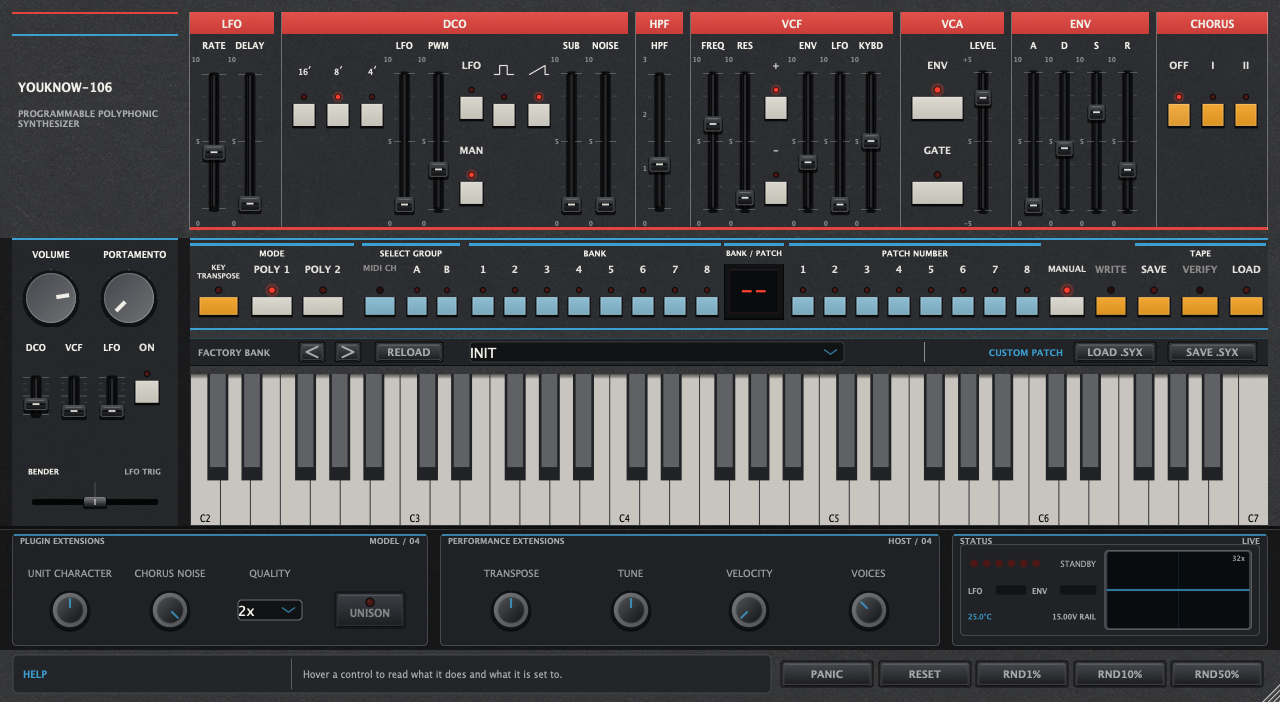
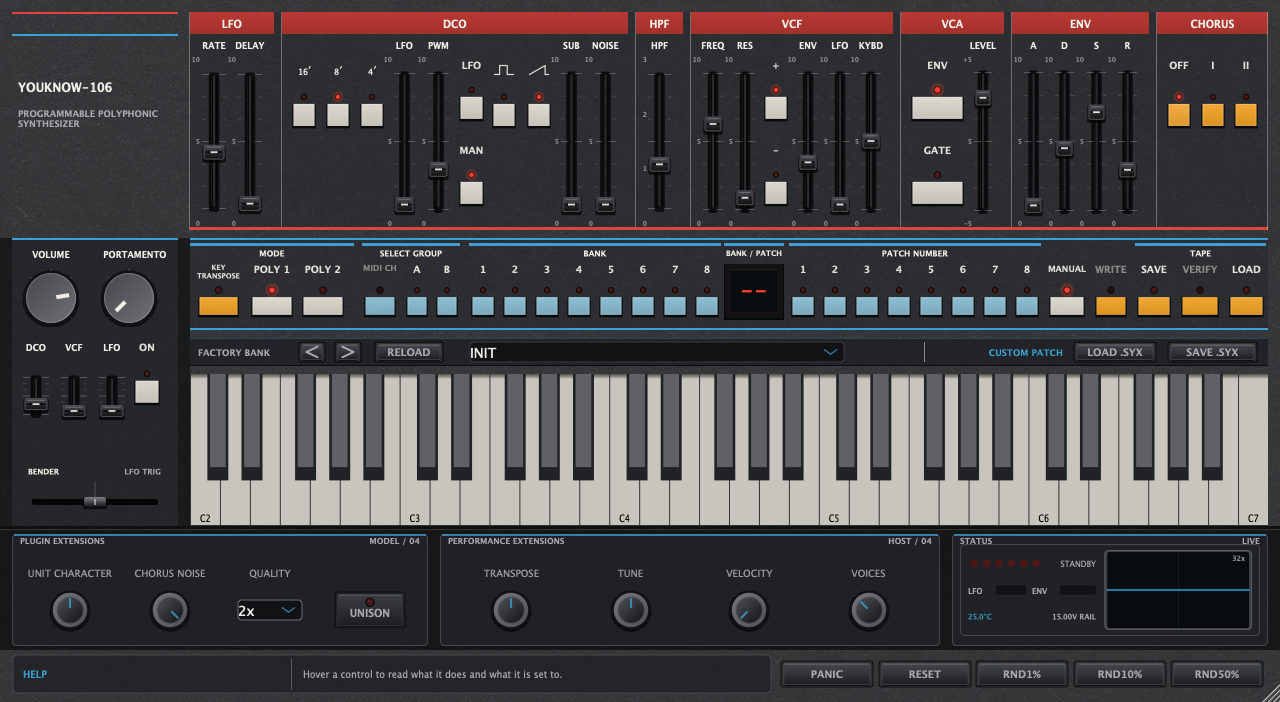
polish YouKnow106 accessibility and packaging

Changed region(s): [[0.125, 0.0, 1.0, 0.0598], [0.2812, 0.8675, 0.3125, 0.8974]]

diff --git a/youknow106/Source/PluginEditor.cpp b/youknow106/Source/PluginEditor.cpp
@@ -168,7 +168,7 @@ YouKnow106LookAndFeel::YouKnow106LookAndFeel()
     setColour (juce::PopupMenu::highlightedBackgroundColourId,
                fromPalette (panel::colour::cyan).withAlpha (0.85f));
     setColour (juce::PopupMenu::highlightedTextColourId,
-               fromPalette (panel::colour::faceplate));
+               fromPalette (panel::colour::scope));
     setColour (juce::PopupMenu::headerTextColourId,
                fromPalette (panel::colour::textDim));
 
@@ -184,6 +184,35 @@ YouKnow106LookAndFeel::YouKnow106LookAndFeel()
                fromPalette (panel::colour::cyan).withAlpha (0.45f));
     setColour (juce::MidiKeyboardComponent::shadowColourId,
                juce::Colours::black.withAlpha (0.6f));
+}
+
+std::unique_ptr<juce::FocusOutline>
+YouKnow106LookAndFeel::createFocusOutlineForComponent (juce::Component&)
+{
+    struct WindowProperties final : public juce::FocusOutline::OutlineWindowProperties
+    {
+        juce::Rectangle<int> getOutlineBounds (juce::Component& component) override
+        {
+            return component.getScreenBounds().expanded (3);
+        }
+
+        void drawOutline (juce::Graphics& g, int width, int height) override
+        {
+            const auto bounds = juce::Rectangle<float> (
+                static_cast<float> (width), static_cast<float> (height));
+
+            // Adjacent dark and light rings remain visible over every panel,
+            // key and illuminated control colour without guessing which one
+            // happens to be behind the focused component.
+            g.setColour (fromPalette (panel::colour::scope));
+            g.drawRoundedRectangle (bounds.reduced (1.5f), 4.0f, 3.0f);
+            g.setColour (fromPalette (panel::colour::text));
+            g.drawRoundedRectangle (bounds.reduced (3.5f), 2.5f, 1.5f);
+        }
+    };
+
+    return std::make_unique<juce::FocusOutline> (
+        std::make_unique<WindowProperties>());
 }
 
 void YouKnow106LookAndFeel::drawLinearSlider (juce::Graphics& g, int x, int y,
@@ -526,13 +555,10 @@ void YouKnow106LookAndFeel::drawButtonText (juce::Graphics& g, juce::TextButton&
     const auto text = button.getButtonText();
     const bool compact = static_cast<bool> (
         button.getProperties().getWithDefault (compactStyleProperty, false));
-    const bool secondary = static_cast<bool> (
-        button.getProperties().getWithDefault (secondaryStyleProperty, false));
     const bool hardware = static_cast<bool> (
         button.getProperties().getWithDefault (hardwareStyleProperty, false));
     g.setColour (fromPalette (button.getToggleState() ? panel::colour::text
-                                                      : panel::colour::textDim)
-                     .withAlpha (secondary ? 0.72f : 1.0f));
+                                                      : panel::colour::textDim));
 
     if (hardware)
     {
@@ -1451,7 +1477,10 @@ YouKnow106AudioProcessorEditor::YouKnow106AudioProcessorEditor (YouKnow106AudioP
         if (isSlider)
             child->setWantsKeyboardFocus (true);
         if (isInteractive)
+        {
             child->setHasFocusOutline (true);
+            child->addKeyListener (this);
+        }
     }
 
     setResizable (true, true);
@@ -1471,6 +1500,9 @@ YouKnow106AudioProcessorEditor::YouKnow106AudioProcessorEditor (YouKnow106AudioP
 YouKnow106AudioProcessorEditor::~YouKnow106AudioProcessorEditor()
 {
     stopTimer();
+    for (auto* child : getChildren())
+        child->removeKeyListener (this);
+
     // Closing a plug-in window during a drag must not leave its last physical
     // gesture latched in the engine after the control itself has disappeared.
     // Do not publish an unsolicited centre event for an untouched lever: that
@@ -2923,8 +2955,8 @@ void YouKnow106AudioProcessorEditor::paint (juce::Graphics& g)
         const auto header = scaled (section.x, section.y, section.width,
                                     panel::headerHeight);
         juce::ColourGradient headerGradient (
-            red.brighter (0.08f), header.getX(), header.getY(),
-            red.darker (0.12f), header.getX(), header.getBottom(), false);
+            red.darker (0.20f), header.getX(), header.getY(),
+            red.darker (0.38f), header.getX(), header.getBottom(), false);
         g.setGradientFill (headerGradient);
         g.fillRect (header);
         g.setColour (ink);
@@ -3112,10 +3144,55 @@ void YouKnow106AudioProcessorEditor::timerCallback()
     // TooltipClient remains the single source of accessible help text, but its
     // presentation is the fixed strip. Poll the same mouse source JUCE's
     // TooltipWindow uses and climb nested slider/combo children in showFor().
+    // A focus change without pointer motion is keyboard traversal, so the
+    // focused control gets the same explanation and exact value as hover.
     const auto mouse = juce::Desktop::getInstance().getMainMouseSource();
     auto* hovered = mouse.isTouch() ? nullptr : mouse.getComponentUnderMouse();
-    if (hovered == this || isParentOf (hovered))
-        contextHelp.showFor (hovered, parameterValueTextFor (hovered));
+    const auto mousePosition = mouse.getScreenPosition();
+    const bool mouseMoved = mousePosition != lastMouseScreenPosition;
+    lastMouseScreenPosition = mousePosition;
+    refreshContextHelp (hovered, juce::Component::getCurrentlyFocusedComponent(),
+                        mouseMoved);
+}
+
+bool YouKnow106AudioProcessorEditor::keyPressed (const juce::KeyPress&,
+                                                 juce::Component* source)
+{
+    if (source == this || isParentOf (source))
+    {
+        lastFocusedHelpComponent = source;
+        contextHelpFollowsKeyboardFocus = true;
+        contextHelp.showFor (source, parameterValueTextFor (source));
+    }
+
+    // Observe the gesture without consuming it; the focused JUCE control keeps
+    // its native Tab, arrow, Space and Return behaviour.
+    return false;
+}
+
+void YouKnow106AudioProcessorEditor::refreshContextHelp (
+    juce::Component* hovered, juce::Component* focused, bool mouseMoved)
+{
+    const auto belongsToEditor = [this] (const juce::Component* component)
+    {
+        return component != nullptr
+            && (component == this || isParentOf (component));
+    };
+
+    if (mouseMoved)
+        contextHelpFollowsKeyboardFocus = false;
+
+    if (focused != lastFocusedHelpComponent.getComponent())
+    {
+        lastFocusedHelpComponent = focused;
+        contextHelpFollowsKeyboardFocus = belongsToEditor (focused);
+    }
+
+    auto* target = contextHelpFollowsKeyboardFocus && belongsToEditor (focused)
+        ? focused : hovered;
+
+    if (belongsToEditor (target))
+        contextHelp.showFor (target, parameterValueTextFor (target));
     else
         contextHelp.showIdle();
 }

diff --git a/youknow106/Tests/PluginProcessorTests.cpp b/youknow106/Tests/PluginProcessorTests.cpp
@@ -33,6 +33,49 @@ void expect (bool condition, const std::string& message)
     }
 }
 
+juce::Colour paletteColour (std::uint32_t rgb)
+{
+    return { static_cast<juce::uint8> ((rgb >> 16) & 0xffu),
+             static_cast<juce::uint8> ((rgb >> 8) & 0xffu),
+             static_cast<juce::uint8> (rgb & 0xffu) };
+}
+
+double relativeLuminance (juce::Colour colour)
+{
+    const auto linear = [] (double component)
+    {
+        return component <= 0.04045
+            ? component / 12.92
+            : std::pow ((component + 0.055) / 1.055, 2.4);
+    };
+
+    return 0.2126 * linear (colour.getFloatRed())
+         + 0.7152 * linear (colour.getFloatGreen())
+         + 0.0722 * linear (colour.getFloatBlue());
+}
+
+double contrastRatio (juce::Colour first, juce::Colour second)
+{
+    const auto firstLuminance = relativeLuminance (first);
+    const auto secondLuminance = relativeLuminance (second);
+    return (std::max (firstLuminance, secondLuminance) + 0.05)
+         / (std::min (firstLuminance, secondLuminance) + 0.05);
+}
+
+juce::Colour compositeOver (juce::Colour foreground, juce::Colour background)
+{
+    const auto alpha = foreground.getFloatAlpha();
+    const auto blend = [alpha] (float front, float back)
+    {
+        return front * alpha + back * (1.0f - alpha);
+    };
+
+    return juce::Colour::fromFloatRGBA (
+        blend (foreground.getFloatRed(), background.getFloatRed()),
+        blend (foreground.getFloatGreen(), background.getFloatGreen()),
+        blend (foreground.getFloatBlue(), background.getFloatBlue()), 1.0f);
+}
+
 struct ParameterExpectation
 {
     const char* id;
@@ -4205,6 +4248,103 @@ void testPersistentContextHelpAndValueBubbles()
     }
 }
 
+void testEditorContrastAndFocusContract()
+{
+    constexpr double minimumTextContrast = 4.5;
+    constexpr double minimumFocusContrast = 3.0;
+
+    const auto text = paletteColour (panel::colour::text);
+    const auto textDim = paletteColour (panel::colour::textDim);
+    const auto scope = paletteColour (panel::colour::scope);
+    const auto red = paletteColour (panel::colour::magenta);
+    expect (contrastRatio (text, red.darker (0.20f)) >= minimumTextContrast
+                && contrastRatio (text, red.darker (0.38f))
+                       >= minimumTextContrast,
+            "section-header text falls below 4.5:1 on its gradient");
+
+    YouKnow106LookAndFeel lookAndFeel;
+    const auto popupBackground = lookAndFeel.findColour (
+        juce::PopupMenu::backgroundColourId);
+    const auto popupHighlight = compositeOver (
+        lookAndFeel.findColour (
+            juce::PopupMenu::highlightedBackgroundColourId),
+        popupBackground);
+    expect (contrastRatio (
+                lookAndFeel.findColour (
+                    juce::PopupMenu::highlightedTextColourId),
+                popupHighlight) >= minimumTextContrast,
+            "selected patch-menu text falls below 4.5:1");
+    expect (contrastRatio (textDim,
+                           paletteColour (panel::colour::faceplateHigh))
+                >= minimumTextContrast,
+            "inactive secondary-button text falls below 4.5:1");
+
+    juce::Component focusTarget;
+    focusTarget.setBounds (0, 0, 80, 32);
+    expect (lookAndFeel.createFocusOutlineForComponent (focusTarget) != nullptr,
+            "the panel look-and-feel has no native JUCE focus outline");
+
+    const auto focusSurfaces = std::to_array<juce::Colour> ({
+        paletteColour (panel::colour::faceplate),
+        paletteColour (panel::colour::faceplateHigh),
+        paletteColour (panel::colour::faceplateLow),
+        paletteColour (panel::colour::magenta),
+        paletteColour (panel::colour::cyan),
+        paletteColour (panel::colour::control),
+        paletteColour (panel::colour::scope),
+        paletteColour (panel::colour::keyBlue),
+        paletteColour (panel::colour::keyAmber),
+        paletteColour (panel::colour::keyIvory)
+    });
+    for (const auto surface : focusSurfaces)
+        expect (std::max (contrastRatio (scope, surface),
+                          contrastRatio (text, surface))
+                    >= minimumFocusContrast,
+                "neither ring of the dual-tone focus outline reaches 3:1");
+}
+
+void testKeyboardFocusAndHoverShareContextHelp()
+{
+    YouKnow106AudioProcessor processor;
+    std::unique_ptr<juce::AudioProcessorEditor> editor (processor.createEditor());
+    auto* ourEditor = dynamic_cast<YouKnow106AudioProcessorEditor*> (editor.get());
+    auto* help = editor != nullptr
+        ? dynamic_cast<YouKnow106ContextHelp*> (
+              findDescendantNamed (*editor, "Context help"))
+        : nullptr;
+    auto* frequency = editor != nullptr
+        ? findDescendantNamed (*editor, "FREQ") : nullptr;
+    auto* quality = editor != nullptr
+        ? findDescendantNamed (*editor, "Quality") : nullptr;
+    auto* patchBox = editor != nullptr
+        ? findDescendantNamed (*editor, "Patch selector") : nullptr;
+    expect (ourEditor != nullptr && help != nullptr && frequency != nullptr
+                && quality != nullptr && patchBox != nullptr,
+            "cannot test keyboard-focused contextual help");
+    if (ourEditor == nullptr || help == nullptr || frequency == nullptr
+        || quality == nullptr || patchBox == nullptr)
+        return;
+
+    const auto frequencyValue = ourEditor->parameterValueTextFor (frequency);
+    ourEditor->refreshContextHelp (patchBox, frequency, false);
+    expect (help->getHelpTitle() == "FREQ"
+                && help->getHelpValue() == frequencyValue
+                && frequencyValue.isNotEmpty(),
+            "keyboard focus does not drive contextual help and exact values");
+
+    ourEditor->refreshContextHelp (patchBox, frequency, true);
+    expect (help->getHelpTitle() == "PATCH SELECTOR"
+                && help->getHelpValue().isEmpty(),
+            "real pointer movement does not restore hover help");
+
+    const auto qualityValue = ourEditor->parameterValueTextFor (quality);
+    ourEditor->refreshContextHelp (patchBox, quality, false);
+    expect (help->getHelpTitle() == "QUALITY"
+                && help->getHelpValue() == qualityValue
+                && qualityValue.isNotEmpty(),
+            "a subsequent keyboard-focus change does not reclaim help");
+}
+
 void testColdStartProgramAndEditorAreInSync()
 {
     YouKnow106AudioProcessor processor;
@@ -5021,6 +5161,8 @@ int main()
     testQualitySelectorDrivesTheEngine();
     testEveryInteractiveEditorControlExplainsItself();
     testPersistentContextHelpAndValueBubbles();
+    testEditorContrastAndFocusContract();
+    testKeyboardFocusAndHoverShareContextHelp();
     testEditorReloadButtonDiscardsPatchEdits();
     testEditorRandomizeStrengthsAndReset();
     testClickingTheSelectedRadioKeepsItsLampLit();

diff --git a/youknow106/Source/PluginEditor.h b/youknow106/Source/PluginEditor.h
@@ -32,6 +32,8 @@ public:
                        int buttonW, int buttonH, juce::ComboBox&) override;
     void drawLabel (juce::Graphics&, juce::Label&) override;
     juce::Label* createSliderTextBox (juce::Slider&) override;
+    std::unique_ptr<juce::FocusOutline> createFocusOutlineForComponent (
+        juce::Component&) override;
 };
 
 // The moulded plastic of the faceplate: a maintained-but-used ABS material scan
@@ -173,6 +175,7 @@ private:
 
 class YouKnow106AudioProcessorEditor final : public juce::AudioProcessorEditor,
                                              public juce::FileDragAndDropTarget,
+                                             private juce::KeyListener,
                                              private juce::Timer
 {
 public:
@@ -194,12 +197,22 @@ public:
     // for it without a real pointer over a real window.
     [[nodiscard]] juce::String parameterValueTextFor (juce::Component*) const;
 
+    // Keyboard traversal and pointer hover share the fixed help strip. A newly
+    // focused control wins until the pointer really moves, at which point the
+    // hover target takes over again. Public for the same headless regression
+    // reason as parameterValueTextFor().
+    void refreshContextHelp (juce::Component* hovered,
+                             juce::Component* focused,
+                             bool mouseMoved);
+
 private:
     using SliderAttachment = juce::AudioProcessorValueTreeState::SliderAttachment;
     using ButtonAttachment = juce::AudioProcessorValueTreeState::ButtonAttachment;
     using ComboBoxAttachment = juce::AudioProcessorValueTreeState::ComboBoxAttachment;
+    using juce::AudioProcessorEditor::keyPressed;
 
     void timerCallback() override;
+    bool keyPressed (const juce::KeyPress&, juce::Component*) override;
     void buildPanelControls();
     void buildUtilityStrip();
     void buildPresetBar();
@@ -316,6 +329,9 @@ private:
     YouKnow106Keyboard keyboard;
     YouKnow106PerformanceLever performanceLever;
     YouKnow106ContextHelp contextHelp;
+    juce::Component::SafePointer<juce::Component> lastFocusedHelpComponent;
+    juce::Point<float> lastMouseScreenPosition;
+    bool contextHelpFollowsKeyboardFocus = false;
 
     std::vector<std::unique_ptr<SliderAttachment>> sliderAttachments;
     std::vector<std::unique_ptr<ButtonAttachment>> buttonAttachments;
